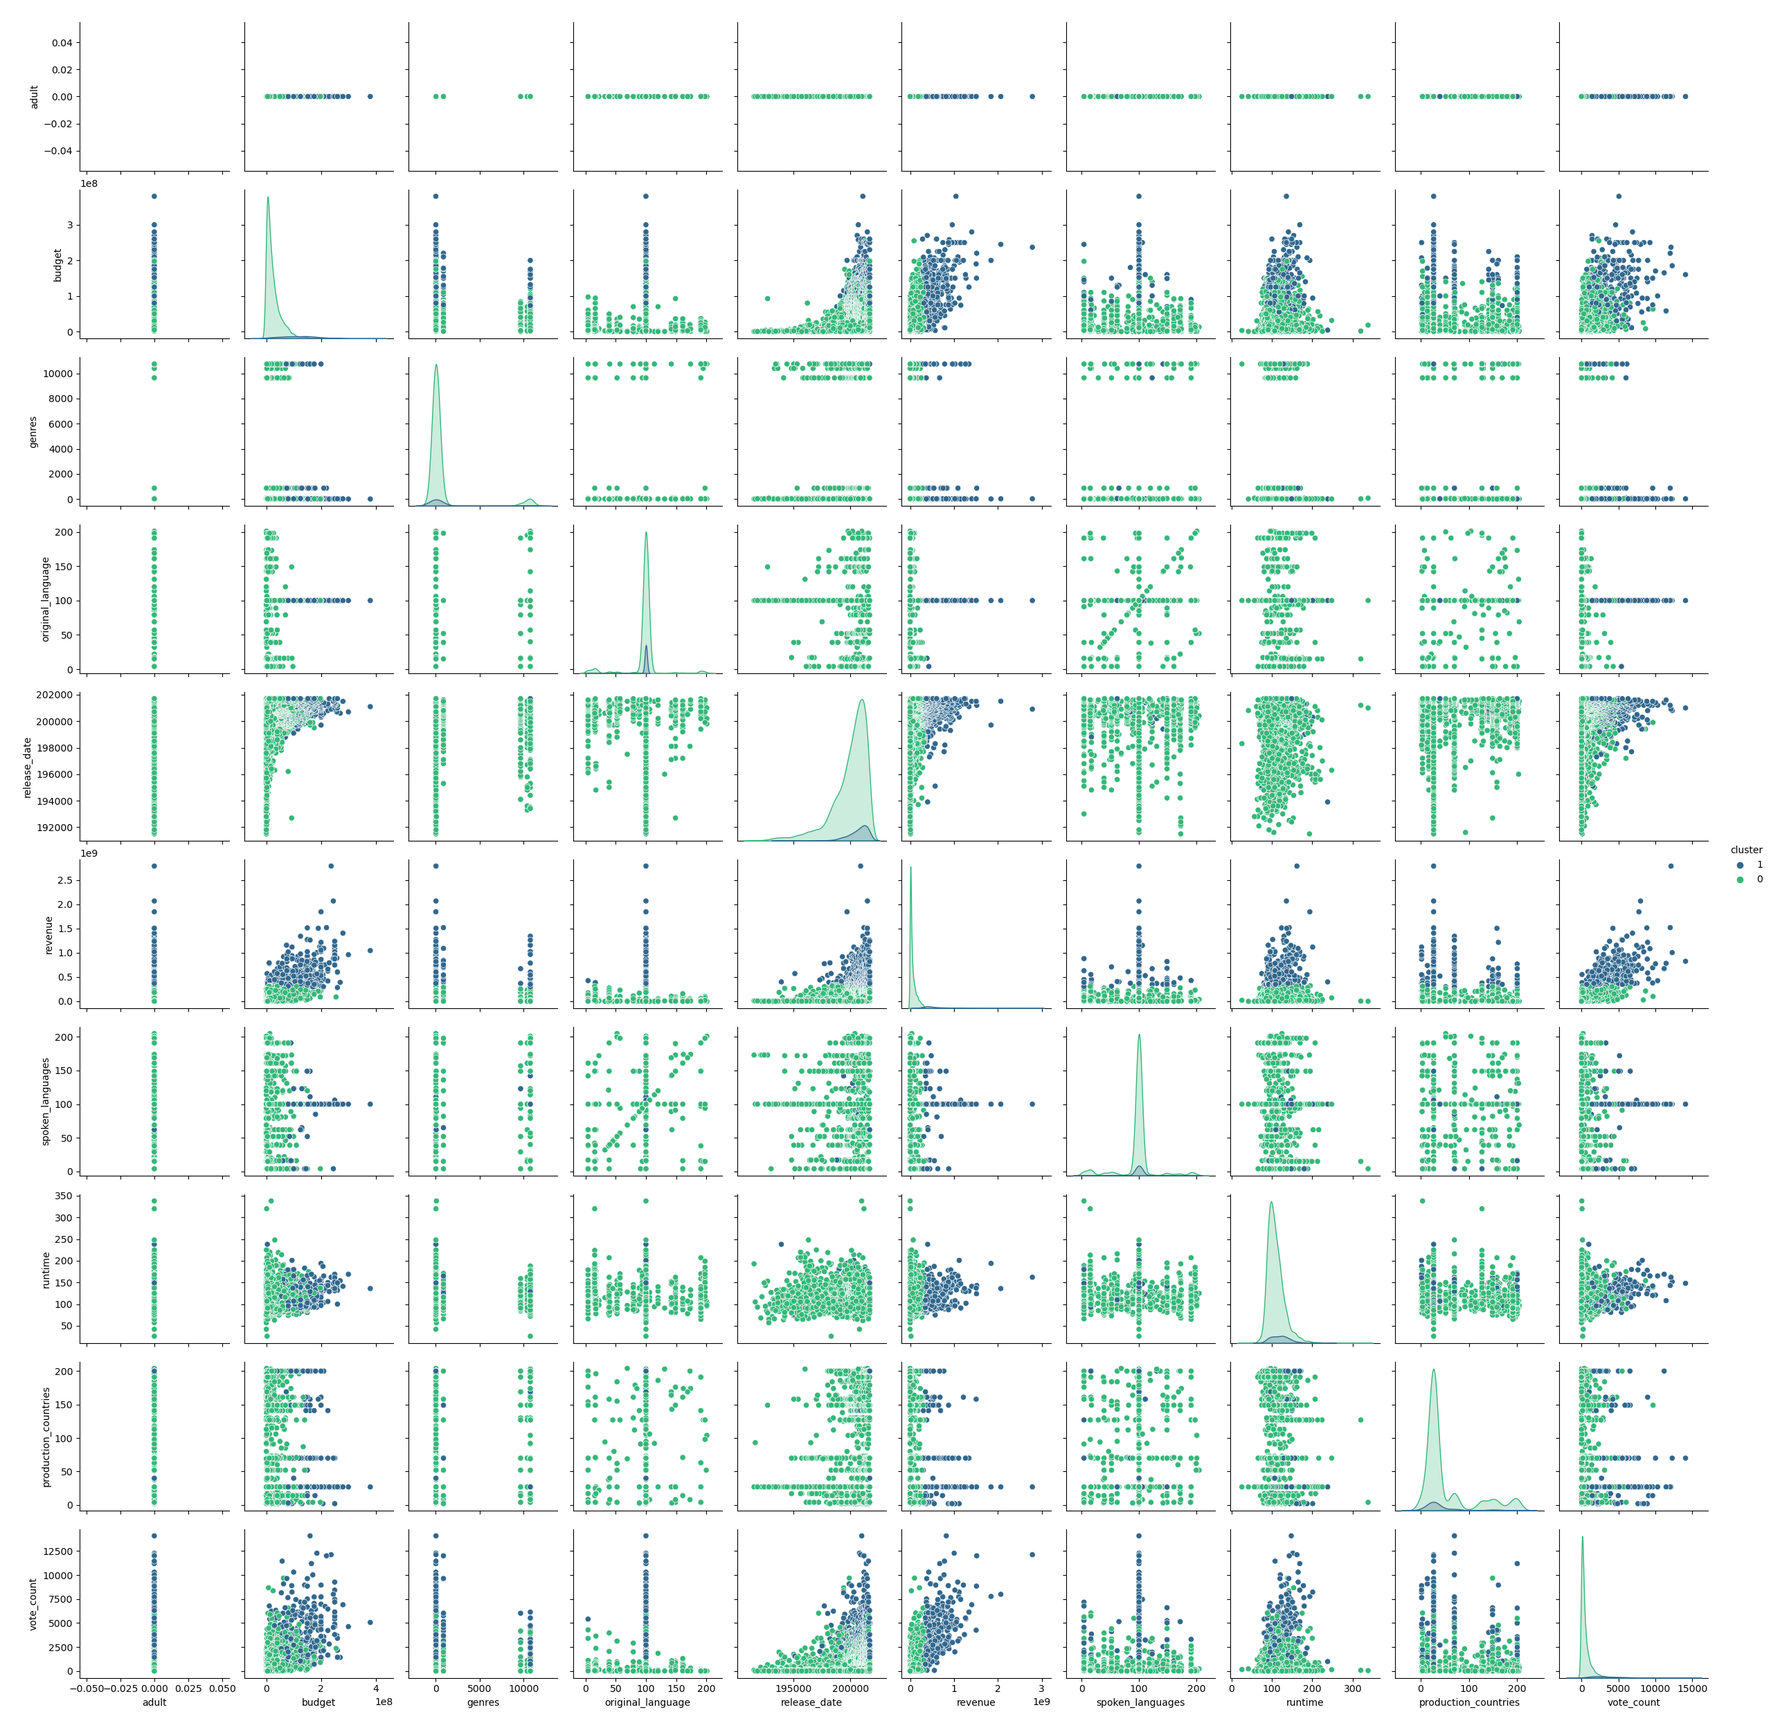
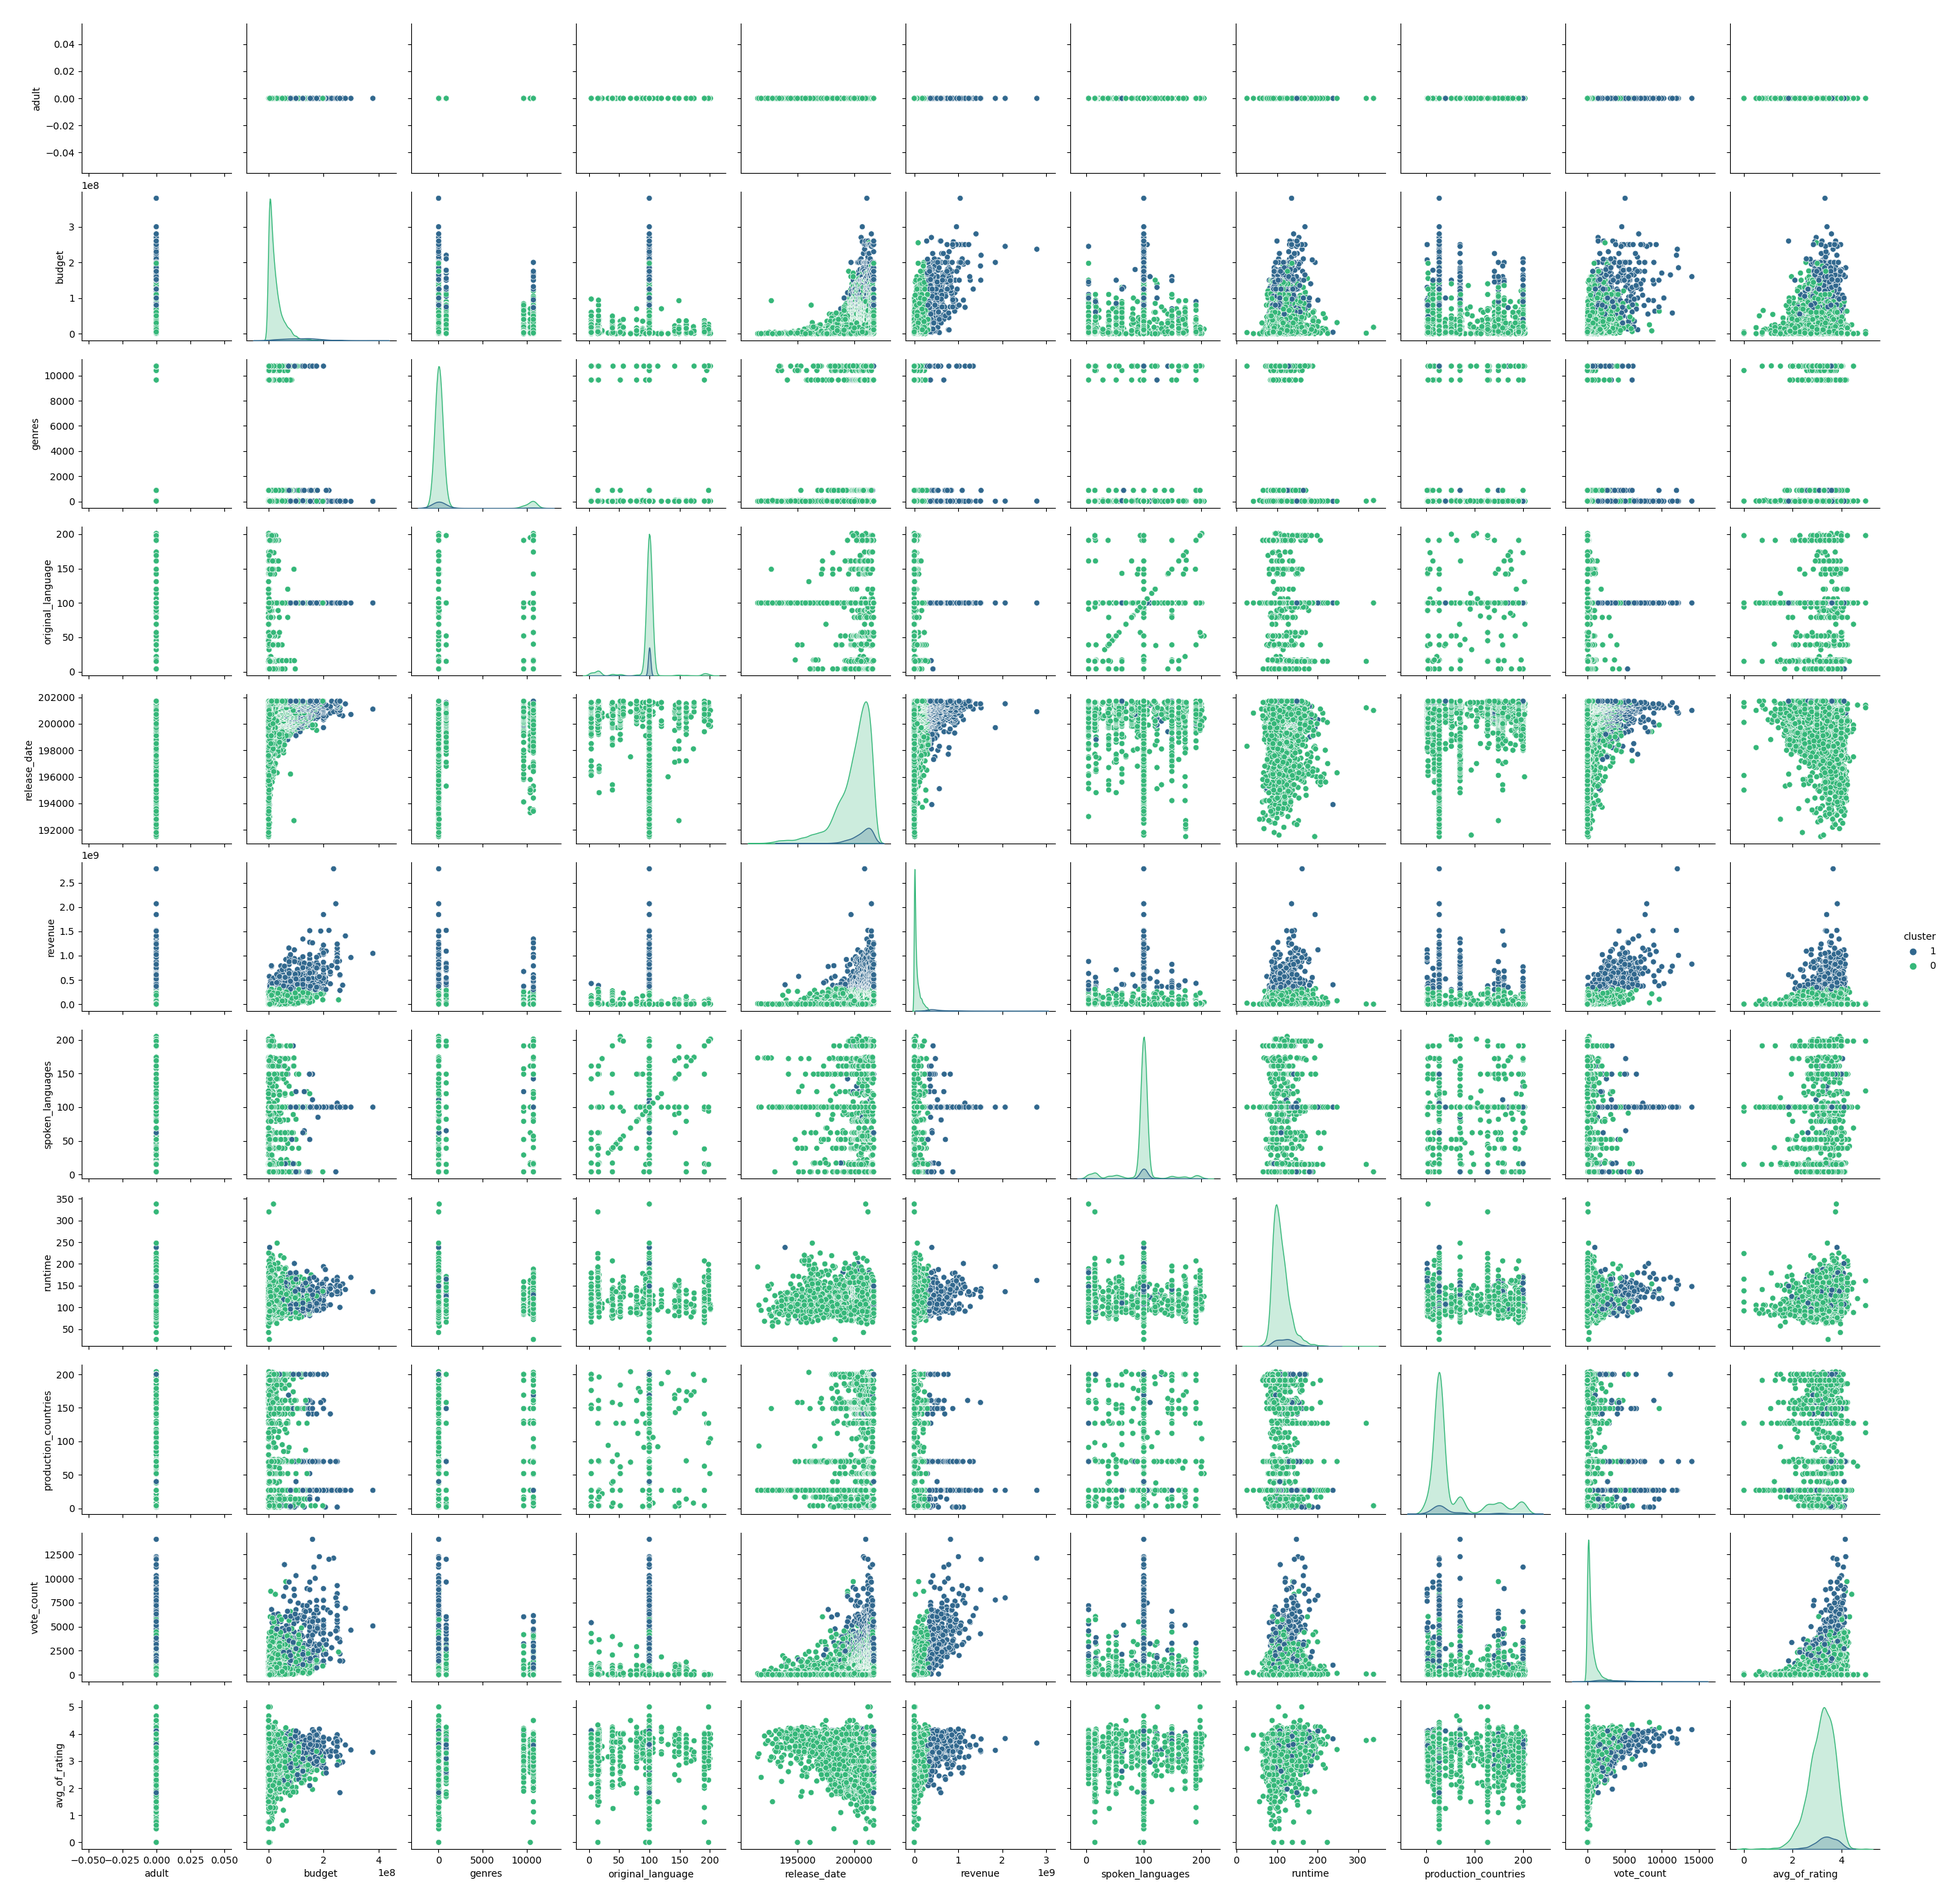
"avg_of_rating" added for simple clastering

diff --git a/kmeans_method.py b/kmeans_method.py
@@ -5,7 +5,7 @@ from sklearn.cluster import KMeans
 
 file_path = "output/movies_relevant_data_num_ids.csv"
 movies_df = pd.read_csv(file_path)
-clustering_features = [
+clustering_features_simple = [
     "adult",
     "budget",
     "genres",
@@ -16,9 +16,10 @@ clustering_features = [
     "runtime",
     "production_countries",
     "vote_count",
+    "avg_of_rating",
 ]
 
-X_clustering_simple = movies_df[clustering_features]
+X_clustering_simple = movies_df[clustering_features_simple]
 
 wcss = []
 for i in range(1, 11):
@@ -50,7 +51,7 @@ kmeans_simple = KMeans(n_clusters=optimal_k, init="k-means++", random_state=42)
 movies_df["cluster"] = kmeans_simple.fit_predict(X_clustering_simple)
 
 # Grouping the data by clusters to analyze the characteristics
-cluster_summary_simple = movies_df.groupby("cluster").mean()[clustering_features]
+cluster_summary_simple = movies_df.groupby("cluster").mean()[clustering_features_simple]
 cluster_summary_simple["number_of_movies"] = movies_df["cluster"].value_counts()
 print(cluster_summary_simple)
 
@@ -59,7 +60,7 @@ cluster_summary_simple.to_csv("output/cluster_summary.csv")
 
 #            Understanding the results of the k-means
 
-movies_df_clustering = movies_df[clustering_features + ["cluster"]]
+movies_df_clustering = movies_df[clustering_features_simple + ["cluster"]]
 
 # Replacing the cluster labels with string labels for better visualization
 movies_df_clustering["cluster"] = movies_df_clustering["cluster"].astype(str)
@@ -68,7 +69,18 @@ movies_df_clustering["cluster"] = movies_df_clustering["cluster"].astype(str)
 sns.pairplot(movies_df_clustering, hue="cluster", palette="viridis", diag_kind="kde")
 plt.savefig("output/kmeans_pairplot.png")
 
-
+clustering_features = [
+    "adult",
+    "budget",
+    "genres",
+    "original_language",
+    "release_date",
+    "revenue",
+    "spoken_languages",
+    "runtime",
+    "production_countries",
+    "vote_count",
+]
 #            Linear Regression Model
 from sklearn.linear_model import LinearRegression
 from sklearn.model_selection import train_test_split
